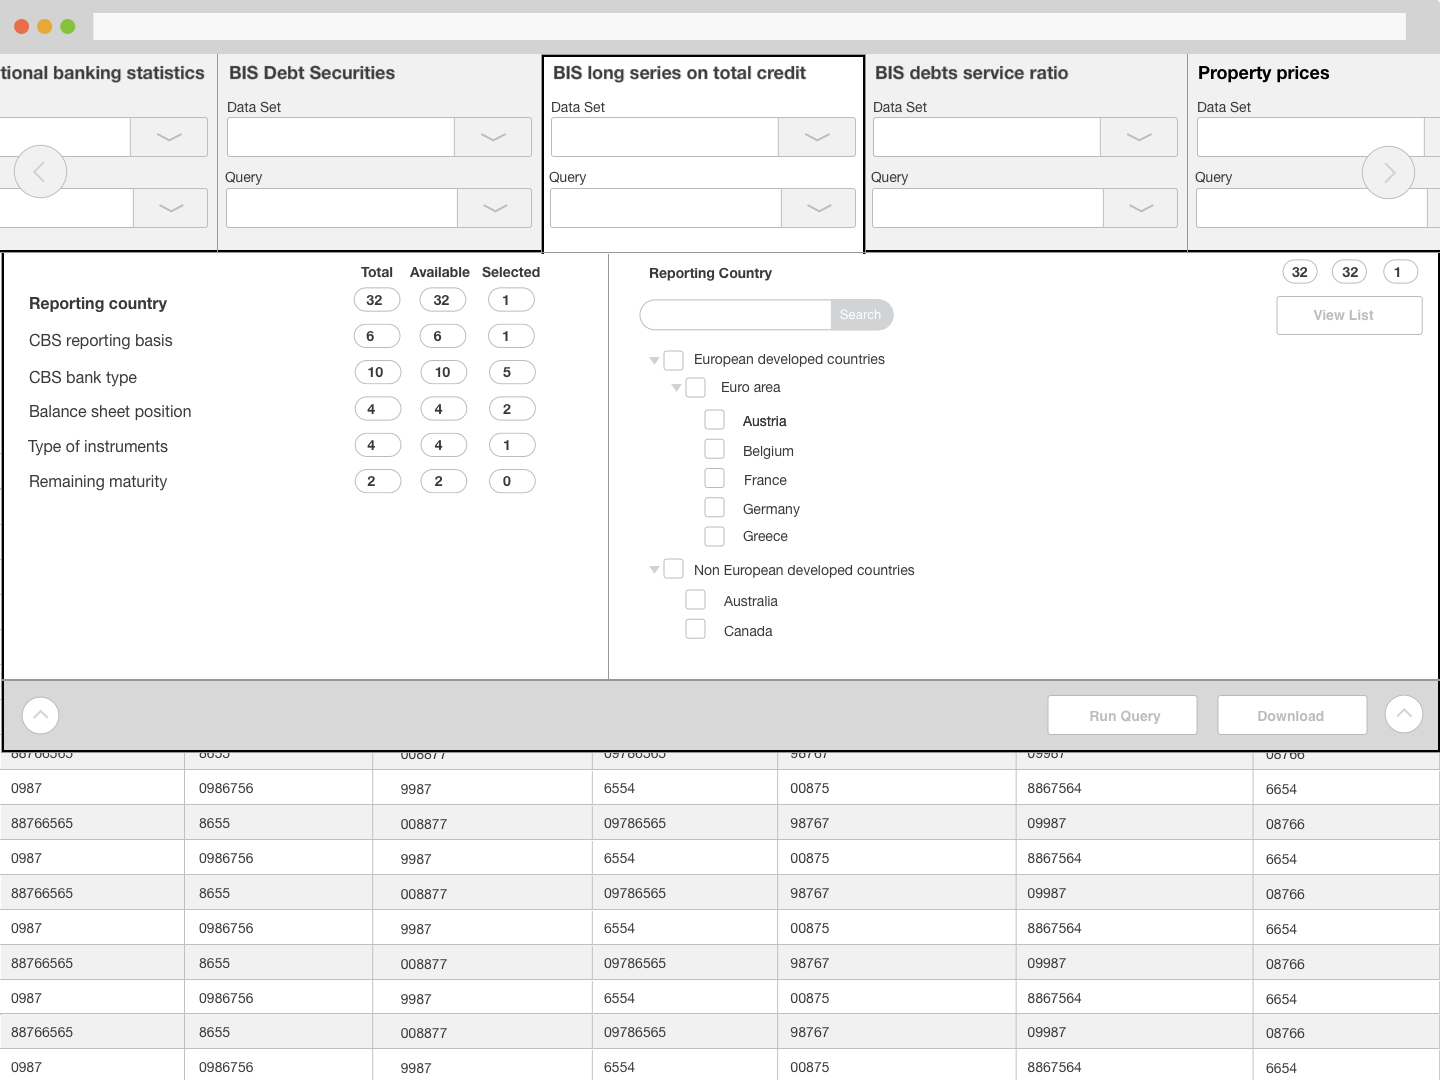
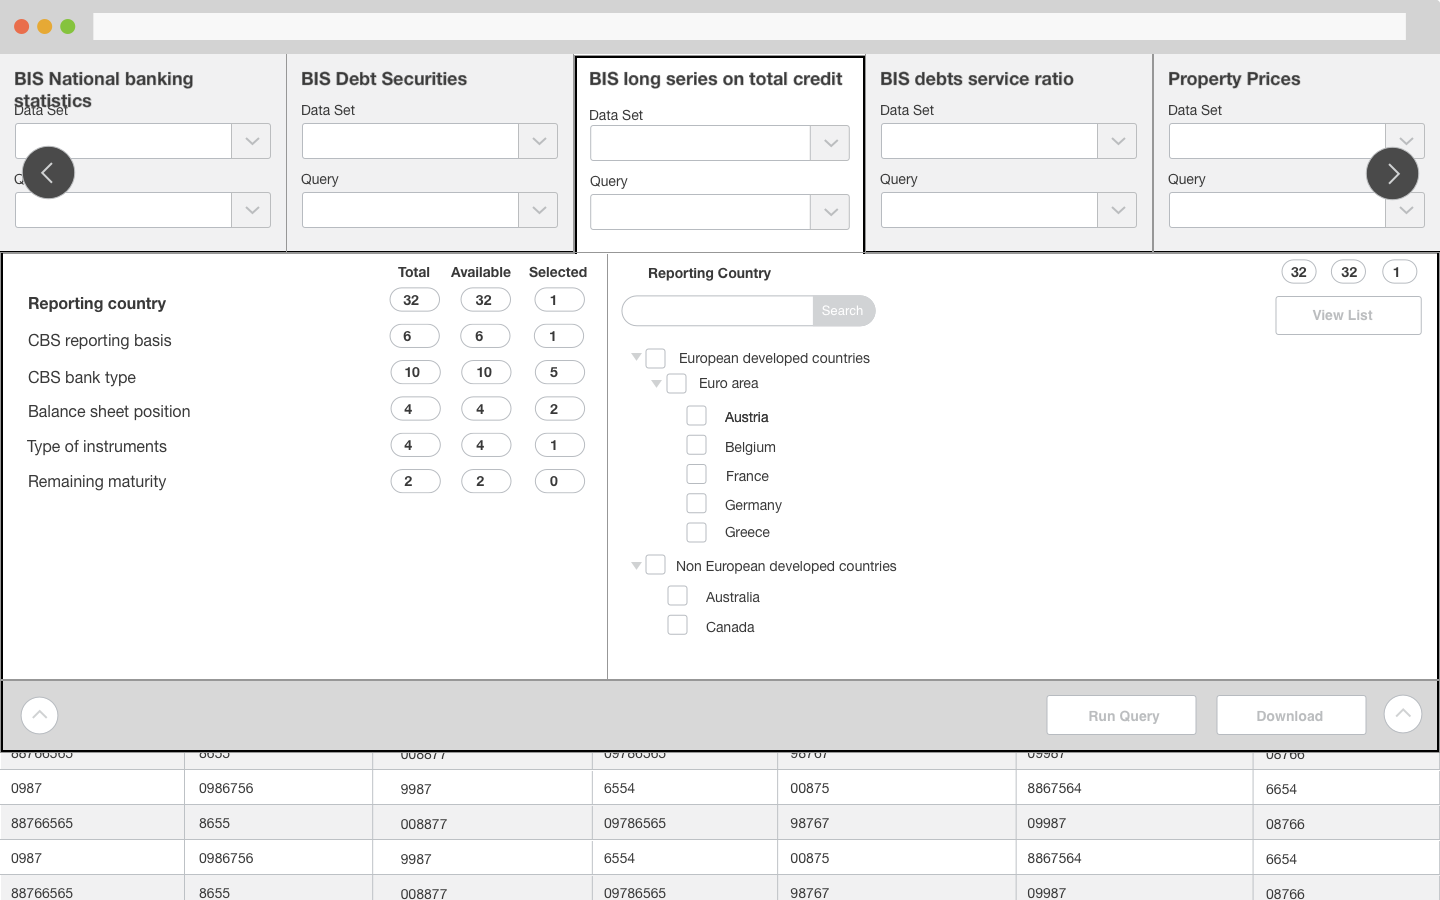
Version 1

Changed region(s): [[0.0, 0.0, 1.0, 0.5911], [0.0, 0.6222, 1.0, 1.0], [0.9062, 0.3422, 0.9688, 0.3733]]

diff --git a/client/app/work/projects/bis/bis.html b/client/app/work/projects/bis/bis.html
@@ -17,28 +17,14 @@
       </div>
       <p>
         Bank Of International Settlements wants do a makeover of the their stats visualisation application.
+      </p>
+      <p>
         The design has become outdated, and it relies on older technologies, which are proving difficult to maintain.
       </p>
 
     </div>
   </section>
-  <section class="section-ux">
-    <div class="section-header"><h1>UX design</h1></div>
-    <img class="prjct-img-size-md" src="assets/images/bis/bis-current-open.png">
-    <img class="prjct-img-size-md" src="assets/images/bis/bis-current-closed.png">
-    The issues with the current design are twofold:
-    <ol>
-      <li>The screen is cluttered, and the visual design exacerbates this impression</li>
-      <li>The screen is not responsive</li>
-    </ol>
 
-    <h4>Responsiveness:</h4>
-
-    The tabbed panes do not scale to any device size.
-
-    <img class="prjct-img-size-md" src="assets/images/bis/wf-dktp-open.png">
-    <img class="prjct-img-size-md" src="assets/images/bis/wf-dktp-closed.png">
-  </section>
   <section class="section-dev">
     <div class="section-header"><h1>development</h1></div>
     <div class="container">
@@ -54,7 +40,6 @@
         The library is also quite unstable, with little or no error handling implementation, which causes the UI to
         freeze in case of type errors.
       </p>
-
       <p>
         To mitigate problems caused by the above design, I proposed two possible options:
       <ol>
@@ -80,23 +65,105 @@
       <p>
         Given the fact that the third party library has a dependency on JQuery, the first option can be problematic.
         Even if workarounds for this issue seem to exist, implementing a service worker would put an already tight
-        deadline
-        under even more pressure.
+        deadline under even more pressure.
       </p>
       <p>
         The second option, easier and faster to implement, was retained, but keeps the UI at risk of freezing.
       </p>
     </div>
   </section>
+  <section class="section-ux">
+    <div class="section-header"><h1>UX design</h1></div>
+    <div class="container">
+      <h3>Current state</h3>
+      <p>
+        Below is an image of the current state of the application. <br>
+        It has been designed to display as much information within the same view as possible.<br>
+        The font size is quite small, with little padding or margins, giving a condensed impression.<br>
+        The white border around some of the panel creates a leveled effect, which feels out of place.<br>
+        The text and header fonts are the same, and the header font size is barely bigger then the text font.<br>
+      </p>
+    </div>
+    <img class="prjct-img-size-md" src="assets/images/bis/bis-current-open.png">
+    <img class="prjct-img-size-md" src="assets/images/bis/bis-current-closed.png">
+    <div class="container">
+      <p>
+        The issues with the current design are twofold:
+      </p>
+      <ol>
+        <li>The screen is cluttered, and the visual design exacerbates this impression.</li>
+        <li>The screen is not responsive.</li>
+      </ol>
+    </div>
+    <div class="container">
+      <p>
+      <h3>Possible solutions</h3>
+      <p>
+        To make the screen responsive one could:
+      </p>
+      <ul class="solutions-list">
+        <li>
+          Put the tabs in a fixed with container, and let that container scroll when overflowing.
+          Add buttons to the left and right to scroll.
+          <img class="prjct-img-size-md" src="assets/images/bis/wf-dktp-open.png">
+        </li>
+        <li>
+          Stack the tabs vertically and move them to a drawer on the left.
+          <img class="prjct-img-size-md" src="assets/images/bis/wf-drawer-open.png">
+        </li>
+        <li>
+          Move the tabs to a dropdown
+          <img class="prjct-img-size-md" src="assets/images/bis/wf-dropdown-open.png">
+        </li>
+      </ul>
+
+      <h3>Conclusion</h3>
+      <p>
+        The first solution has the advantage to be easily scannable. All content is presented in one tab.
+        The current selected dataset and query are clearly visible.
+        The grouping of the query selection and its filter items reduces cognitive load.
+        This layout also scales well, as the layout largely stays the same over the different screen sizes.
+        The inconvenience of this option is that on smaller screens most of the tabs will hidden,
+        and the user needs to scroll for each tab change. There is no visual overview of all the categories.
+        Due rendering of the data in pivot tables, the application is by nature less suitable for mobile devices.
+        <!--It is possible to optimize for small screens by changing the direction of the scroll to vertical and have the container -->
+        <!--overflow , and thus create a -->
+        <!--dropdown. -->
+      </p>
+      <p>
+        The second option is also viable. The layout feels less cohesive however, and the catories are hidden on all
+        screen sizes. The application is used primarily on large desktops, which makes this a less optimal solution.
+        Potentially this view could be triggered only when the screen is to small to display the tabs side by side.
+        This is difficult to achieve however because the number of tabs and the size of the tabs are dynamic.
+      </p>
+      <p>
+        This would go against the general recommendation to not use dropdowns when there is a need to single out
+        the location of the current section of the site. For that reason this solution needs not to be presented
+        to the client as possible option.
+      </p>
+    </div>
+
+  </section>
   <section class="section-design">
-    <li>The font size is quite small, with little padding or margins, giving a condensed impression.</li>
-    <li>
-      The visual design is only exacerbates the situation because of the inconsistent white border around some of the panels.
-      It creates a leveled effect, purely decorative, which feels out of place.
-    </li>
-    <li>
-      The text and header fonts are the same, both sans-serif, and the header font size is barely bigger then the text font.
-    </li>
+    <div class="section-header"><h1>UI design</h1></div>
+    <div class="container">
+      The new design needs to conform to the look and feel of current BIS website,
+      which restricts the options for redesign severely. In order to comply with these constraints, and suffiently
+      reduce the cluttered aspect of the previous design, I opted to use a white background wherever possible.
+    </div>
+    <img class="prjct-img-size-md" src="assets/images/bis/design-open.png">
+    <div class="container">
+      The application keeps a dense impression, because of the many panels, but the situation has improved.
+      To make a more obvious distinction between headers and text without introducing a new font,
+      headers are made uppercase.
+    </div>
+    <img class="prjct-img-size-md" src="assets/images/bis/design-closed.png">
+    <div class="container">
+      The client asked to make the run button more prominent.
+      To stay within the given color palette, instead of changing the color of the run button,
+      I changed the color of the other buttons to white,
+      making the run button stand out.
+    </div>
   </section>
 </article>
 <footer class="footer-nav" ng-include src="'app/work/footer-nav.html'">

diff --git a/client/app/work/projects/weather+/weather+.html b/client/app/work/projects/weather+/weather+.html
@@ -25,14 +25,14 @@
         </svg>
       </div>
       <p>
-        Polestar Space Solutions wants to provide customers with additional layers to their existing weather
+        Polestar Space Solutions wants to offer customers additional layers to their existing weather
         maps.
       </p>
       <p>
-        The new weather+ service will display maps with ocean wave and current models.
+        They have partnered up with Tidetech, a company wich provides ocean wave and tidal current models.
       </p>
       <p>
-
+        These models help shipping companies choose the most optimal route to reduce fuel consumption and fuel emissions.
       </p>
     </div>
   </section>
@@ -142,21 +142,19 @@
       </p>
     </div>
     <img class="prjct-img-size-md" src="/assets/images/weather+/map-currents.png">
-    <img class="prjct-img-size-md" src="/assets/images/weather+/map-currents-cloud-cover.png">
+    <img class="prjct-img-size-md" src="/assets/images/weather+/map-heat-waves.png">
     <img class="prjct-img-size-md" src="/assets/images/weather+/map-relative-humidity.png">
-    <img class="prjct-img-size-md" src="/assets/images/weather+/map-unknown.png">
-    <div class="container">
-      <p>
-        Interval selection can be done by using the slider handle, or by clicking the previous/next buttons.
-        The slider is an Angular2 component based on a HTML5 range input.
-      </p>
-    </div>
-    <img class="prjct-img-size-max" src="/assets/images/weather+/mockup.png">
 
   </section>
   <section id="design-polestar" class="section-design design-weather-plus">
     <div class="section-header"><h1>UI Design</h1></div>
-
+    <img class="prjct-img-size-max" src="/assets/images/weather+/mockup.png">
+    <div class="container">
+      <p>
+        Interval selection can be made by using the slider handle, or by clicking the increment/decrement buttons.
+        The slider is an Angular2 component based on HTML5 range input.
+      </p>
+    </div>
   </section>
 </article>
 <footer class="footer-nav" ng-include src="'app/work/footer-nav.html'">

diff --git a/client/app/home/home.html b/client/app/home/home.html
@@ -14,7 +14,6 @@
   </header>
   <main>
     <div class="row padding">Recent projects: </div>
-    <div class="row">
       <div class="thumbnail">
         <a ui-sref="work.project({ project: 'bis'})">
           <H2>BIS stats</H2>
@@ -27,21 +26,18 @@
           <span class="read-more">read more</span>
         </a>
     </div>
-     </div>
-    <div class="row">
       <div class="thumbnail">
         <a ui-sref="work.project({ project: 'pem'})">
           <H2>Polestar Emission Monitoring</H2>
           <span class="read-more">read more</span>
         </a>
       </div>
-      <div class="thumbnail">
-        <a ui-sref="work.project({ project: 'polestar'})">
-          <H2>Turnip</H2>
-          <span class="read-more">read more</span>
-        </a>
-      </div>
-    </div>
+      <!--<div class="thumbnail">-->
+        <!--<a ui-sref="work.project({ project: 'polestar'})">-->
+          <!--<H2>Turnip</H2>-->
+          <!--<span class="read-more">read more</span>-->
+        <!--</a>-->
+      <!--</div>-->
   </main>
   <div class="separator">
 

diff --git a/client/app/work/projects/projects.scss b/client/app/work/projects/projects.scss
@@ -33,7 +33,7 @@ $footer-height: 5rem;
   .section-summary {
     background-color: #ffffff;
     .container {
-      padding: 7vw;
+      padding: 5vw;
       @media (max-width: $screen-sm) {
         padding: 1rem;
       }
@@ -48,6 +48,7 @@ $footer-height: 5rem;
       h1 {
         font-family: Bitter, serif;
         font-size: 3rem;
+        line-height: 3rem;
         width: 100%;
         text-align: center;
       }
@@ -88,6 +89,15 @@ $footer-height: 5rem;
     height: auto;
     margin: 2rem auto;
     border: 1px solid $gray-light;
+  }
+
+  @media (max-width: $screen-sm) {
+    .prjct-img-size-md,
+    .prjct-img-size-max
+    {
+      max-width: 100%;
+      margin: 1rem;
+    }
   }
 
 }

diff --git a/client/app/home/home.scss b/client/app/home/home.scss
@@ -70,10 +70,14 @@
 
     .read-more {
       position: absolute;
-      bottom: -2rem;
-      right: 10%;
+      bottom: -3rem;
+      right: 3rem;
       transition: all 0.2s ease-in-out;
-     // color: white;
+      background-color: #d90000;
+      color: white;
+      font-size: 1rem;
+      padding: 0.5rem 1rem 0.2rem;
+      border-radius: 2px 2px 0 0;
     }
 
     &:hover {
@@ -84,7 +88,7 @@
       }
 
       .read-more {
-        bottom: 0.2rem;
+        bottom: 0rem;
         transition: all 0.2s ease-in-out;
       }
     }

diff --git a/client/app/work/projects/bis/bis.scss b/client/app/work/projects/bis/bis.scss
@@ -1,10 +1,26 @@
 .bis {
 
-    .section-dev {
-      li {
-        margin-bottom: 1rem;
-      }
-
+  .section-dev {
+    background-color: $gray-lighter !important;
+    .section-header {
+      color: white !important;
     }
+    li {
+      margin-bottom: 1rem;
+    }
+  }
+
+  .section-ux {
+    background-color: white !important;
+    .section-header {
+      color: $gray-lighter !important;
+    }
+
+    .solutions-list {
+      list-style: circle;
+      list-style-position: inside;
+    }
+
+  }
 
 }

diff --git a/client/app/work/project-constants.js b/client/app/work/project-constants.js
@@ -25,8 +25,8 @@ angular.module('evtrs-site')
       id: 'bis',
       name: 'BIS',
       articleSections : [
-        {id:'ux', name: 'Ux Design'},
         {id:'dev', name: 'Development'},
+        {id:'ux', name: 'Ux Design'},
         {id:'design', name: 'Interface Design'}
       ]
     }

diff --git a/client/app/about/about.html b/client/app/about/about.html
@@ -5,9 +5,6 @@
 </header>
 <main>
   <p>
-    I build and design user interfaces
-  </p>
-  <p>
     When I started out in software development, most of the challenge in producing software was
     technical. Especially so in web development.
   </p>
